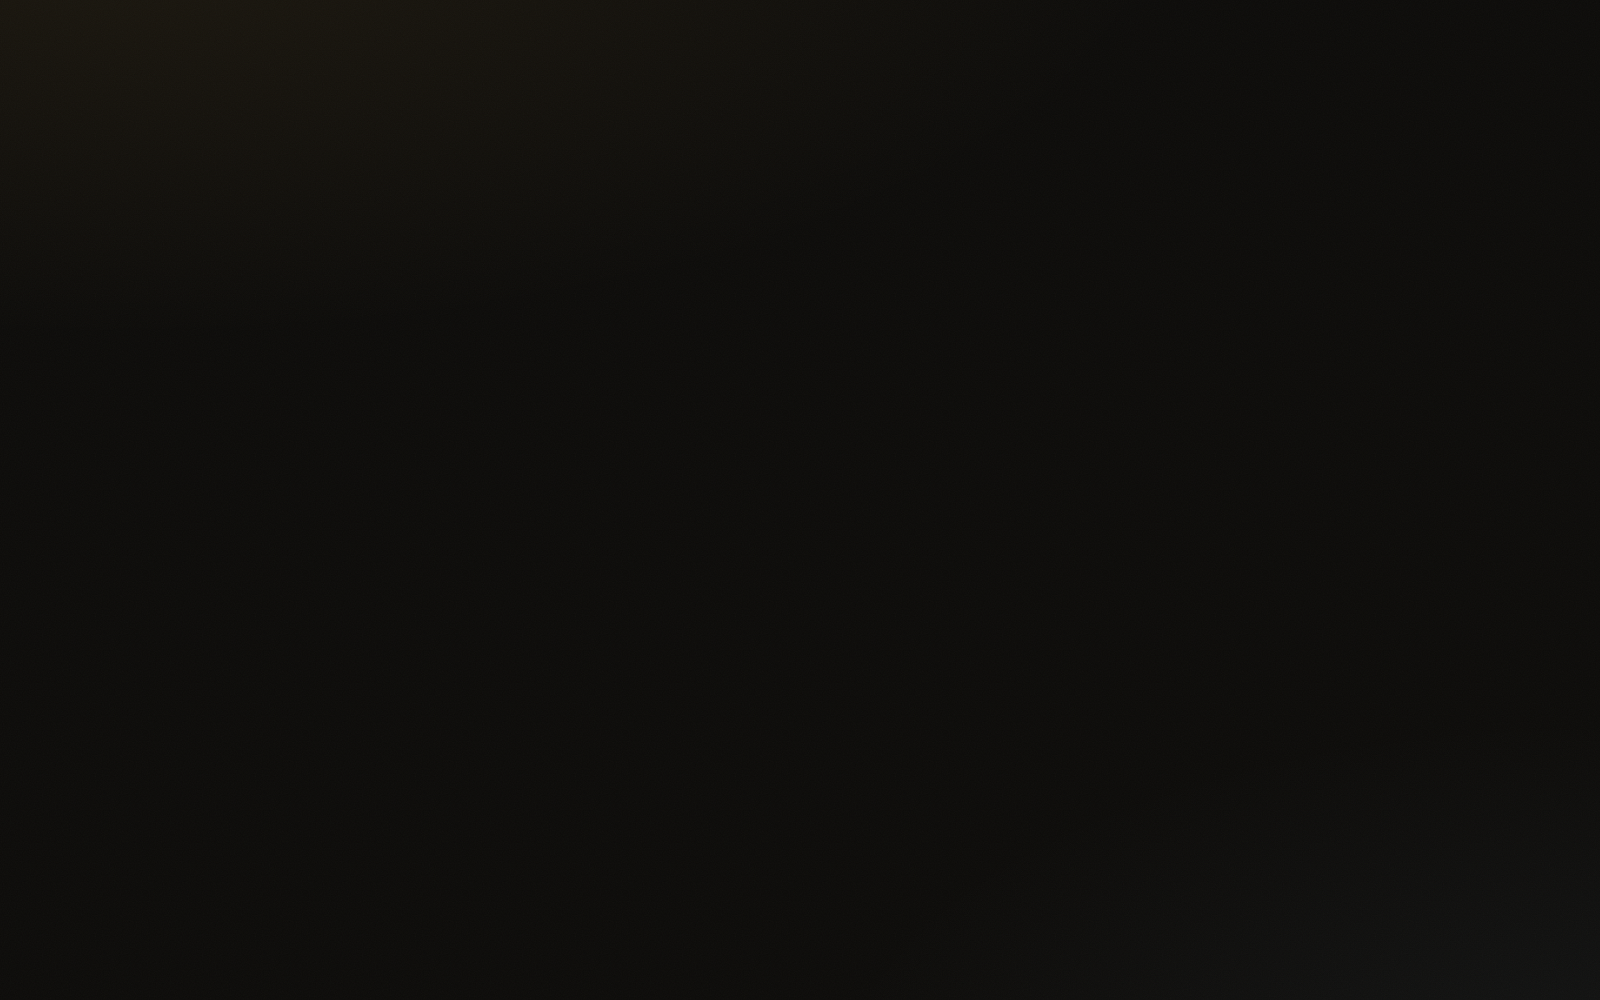
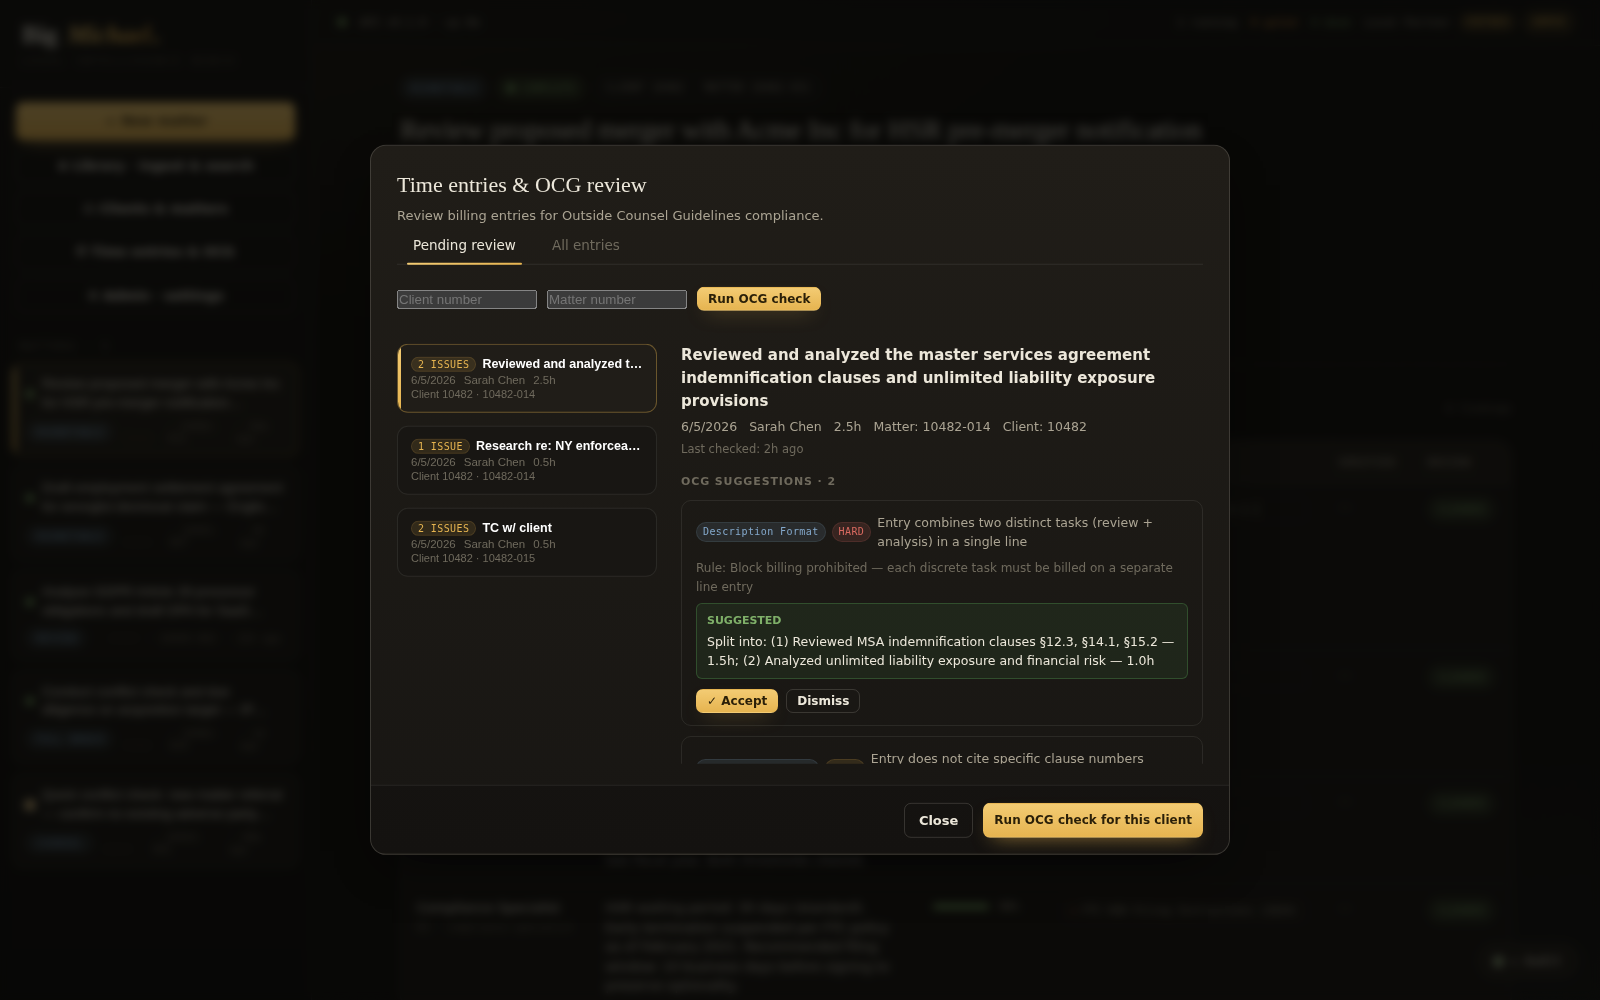
fix: OCG suggestion fields + stopPropagation on entry card; retake screenshots
- Fixed seeded .time-entries.json: OCG suggestions now use correct field names
  (ruleText, category, issue, suggestedDescription, severity hard/soft) matching
  the OcgSuggestion interface — previous wrong field names caused a React crash
  in CategoryChip that silently unmounted the modal, producing black screenshots
- Added e.stopPropagation() to EntryItem onClick so clicking an entry card
  cannot bubble up to the modal-scrim onClose handler
- Retook both screenshots with working UI:
  07-audit-trail.png: audit rail showing 23 history entries with lawyer
  attribution on Westlaw/iManage/CourtListener calls, assignment deltas
  08-ocg-check.png: OCG review modal, entry selected, showing HARD/SOFT
  suggestion cards with rule text, issue description, and suggested rewrites

https://claude.ai/code/session_01E6Q92GZgCipoMAvfgmW26U

diff --git a/ui/src/TimeEntryPane.tsx b/ui/src/TimeEntryPane.tsx
@@ -37,7 +37,7 @@ function EntryItem({ entry, selected, onClick }: EntryItemProps) {
     <motion.button
       className={`task-card ${selected ? "active" : ""}`}
       style={{ textAlign: "left", position: "relative" }}
-      onClick={onClick}
+      onClick={(e) => { e.stopPropagation(); onClick(); }}
       layout
       initial={{ opacity: 0, x: -8 }}
       animate={{ opacity: 1, x: 0 }}